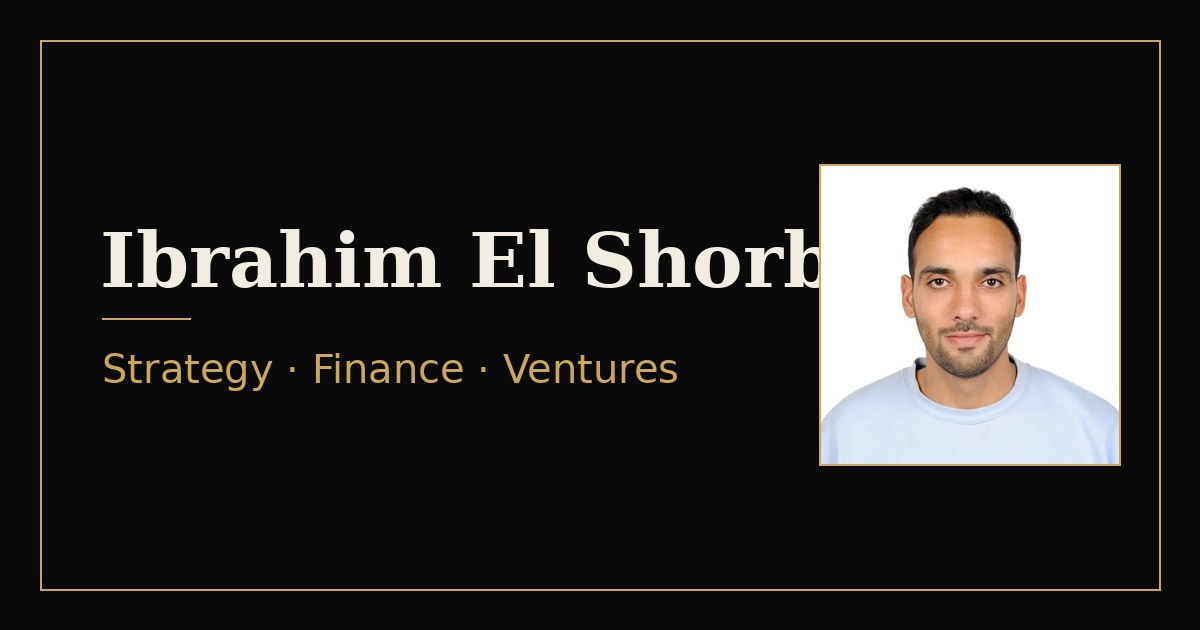
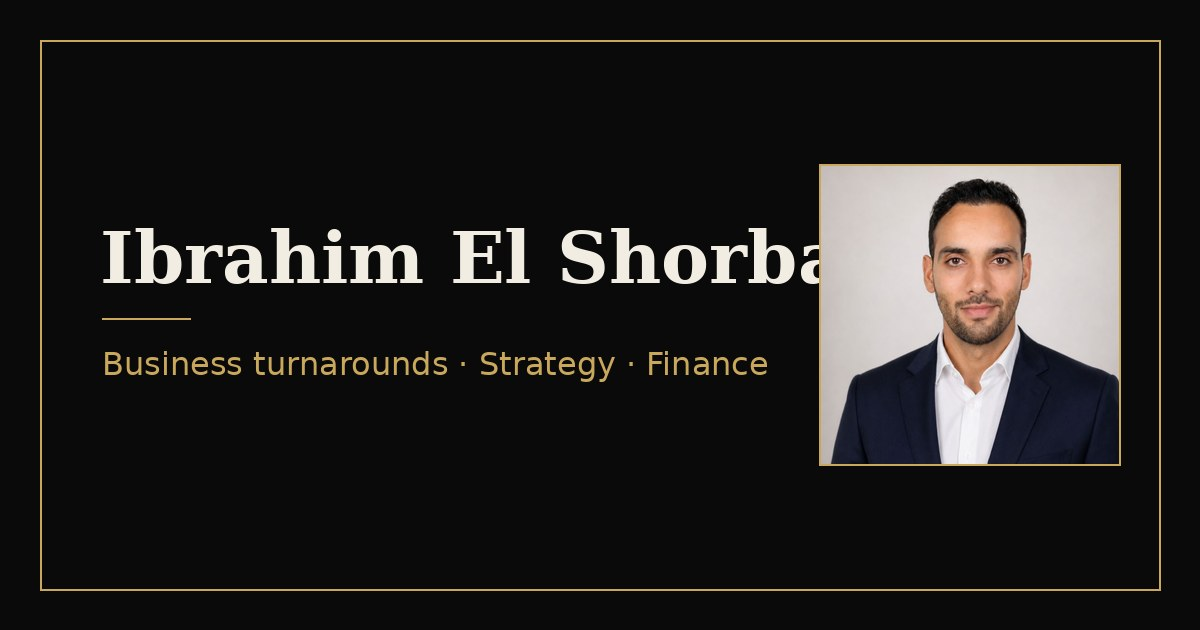
Update portrait photo
Claude-Session: https://claude.ai/code/session_01BqewRU1ZCwQHkGWXye4Sgg

Changed region(s): [[0.0925, 0.2413, 0.9558, 0.754], [0.0617, 0.5429, 0.6475, 0.6333]]

diff --git a/index.html b/index.html
@@ -77,7 +77,7 @@
 
         <figure class="hero-photo">
           <!-- SWAP IMAGE: your photo lives at images/portrait.jpg (square works best) -->
-          <img src="images/portrait.jpg" alt="Portrait of Ibrahim El Shorbagy" width="600" height="600">
+          <img src="images/portrait.jpg" alt="Portrait of Ibrahim El Shorbagy" width="800" height="800">
         </figure>
       </div>
     </section>
